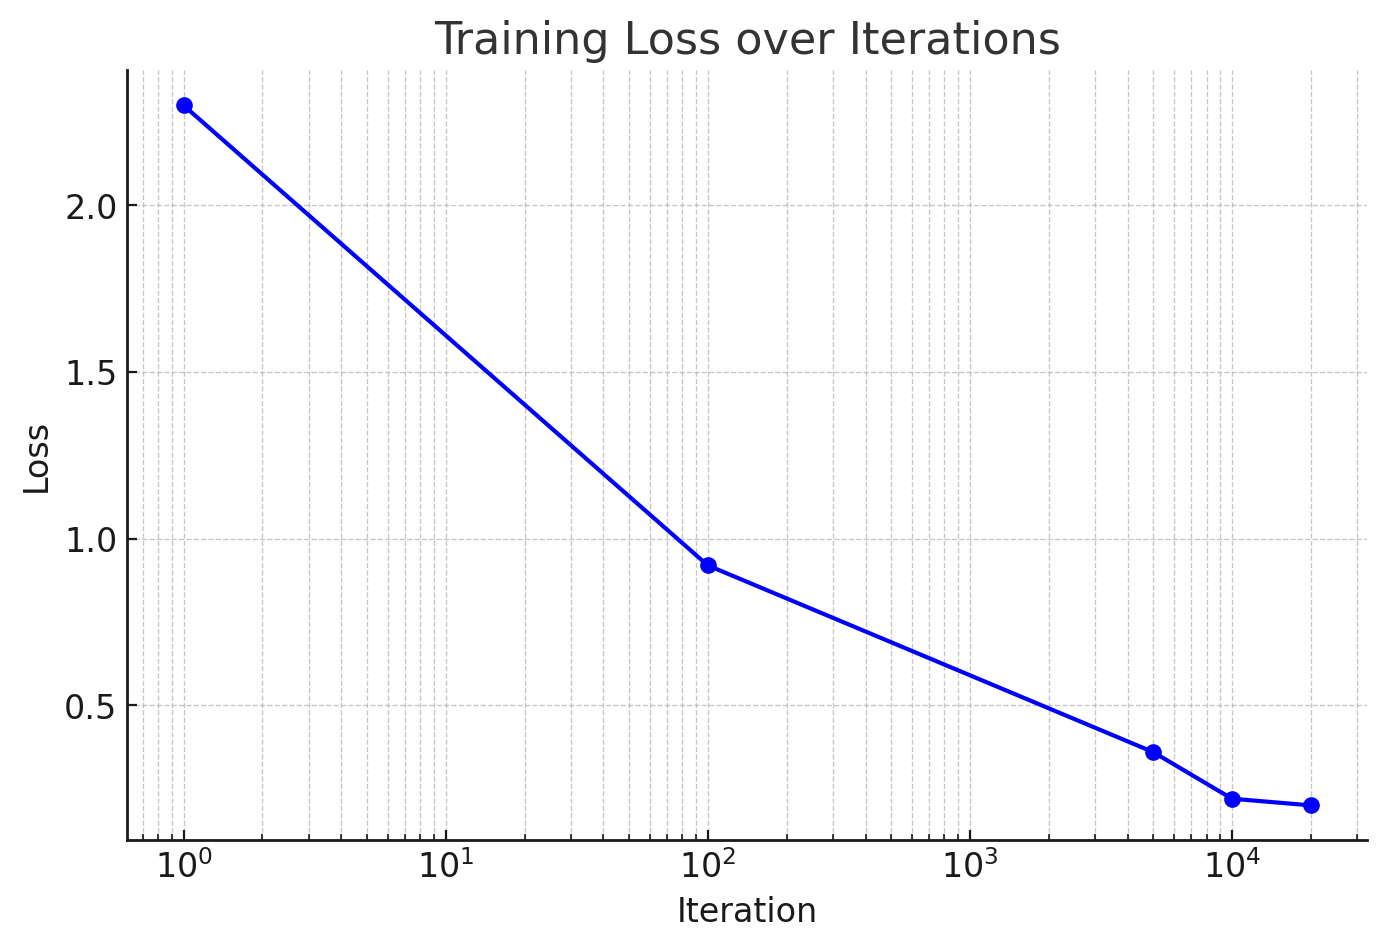
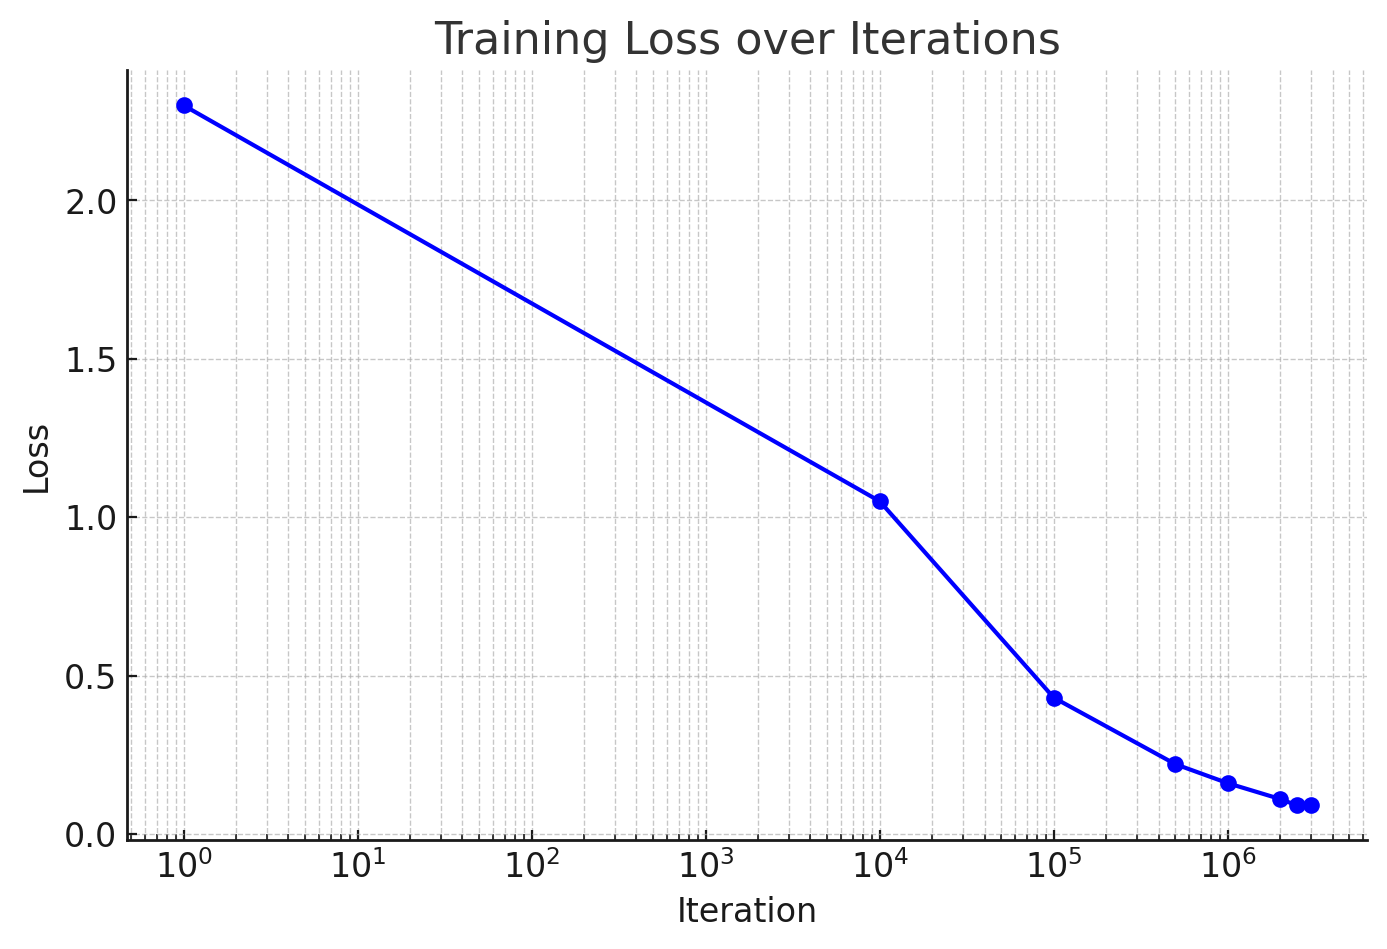
Fixed the loss section with a more realistic example

diff --git a/LLMs_explained.md b/LLMs_explained.md
@@ -132,15 +132,16 @@ Remember:
 
 <img src="images/loss.png" width="600"/><br>
 
-| Iteration | LLM Prediction | Loss | Observation |
-|-----------|----------------|------|-------------|
-| 1 | *banana* → 50% <br>*galaxy* → 30%<br>*mat* → 10%<br>*sofa* → 10% | **2.30**<br>(Very High)| Model thinks that the likelihood of "mat" is unlikely (just 10% probability) → high loss.|
-| 100 | *mat* → 40%<br>*sofa* → 30%<br>*floor* → 20%<br>*banana* → 10% | **0.92**<br>(Low) | "mat" is getting more probable → loss decreasing. |
-| 5000 | *mat* → 70%<br>*sofa* → 20%<br>*floor* → 8%<br>*banana* → 2% | **0.36**<br>(Lower) | Training is working - as the loss steadily decreasing |
-| 10000 | *mat* → 80%<br>*sofa* → 15%<br>*floor* → 4%<br>*banana* → 1% | **0.22**<br>(Very Low) | The model is confident that the true next word is "mat". |
-| 20000 | *mat* → 82%<br>*sofa* → 14%<br>*floor* → 3%<br>*banana* → 1% | **0.20**<br>(Very Low) | Plateau<br>At this point, the model is barely improving (from 0.22 → 0.20).<br>Training longer costs huge amounts of compute but gives very little gain. It’s a strong signal that training can stop. |
-
-
+| Iteration | Context | True Next Token | LLM Prediction | Loss | Observation |
+|-----------|---------|-----------------|----------------|------|-------------|
+| 1 | "The cat sat on the" | *mat* | *banana* → 50% <br>*galaxy* → 30%<br>*mat* → 10%<br>*sofa* → 10% | **2.30**<br>(Very High)| Model is essentially guessing randomly. It thinks "banana" is most likely, which is completely wrong → very high loss.|
+| 10000 | "She placed her keys on the kitchen" | *counter* | *counter* → 35%<br>*table* → 30%<br>*floor* → 20%<br>*moon* → 15% | **1.05**<br>(High) | Model is starting to learn context matters. The true next token "counter" is its top prediction, but still not very confident → Loss decreasing. |
+| 100000 | "Please wipe your feet on the" | *mat* | *mat* → 65%<br>*doormat* → 20%<br>*floor* → 10%<br>*carpet* → 5% | **0.43**<br>(Medium-Low) | Training is working - as the loss steadily decreasing |
+| 500000 | "The airplane flew across the" | *sky* | *sky* → 80%<br>*ocean* → 12%<br>*country* → 6%<br>*clouds* → 2% | **0.22**<br>(Low) |  Model correctly predicted the correct next word with high confidence - Great sign! |
+| 1000000 | "He opened the book and began to" | *read* | *read* → 85%<br>*write* → 10%<br>*study* → 4%<br>*close* → 1% | **0.16**<br>(Very Low) | Model correctly predicted the correct next word with even higher confidence - Nice! |
+| 2000000 | "She wore a beautiful wedding" | *dress* | *dress* → 90%<br>*gown* → 7%<br>*ring* → 2%<br>*veil* → 1% | **0.11**<br>(Very Low) | Model consistently predicting the correct next word with high confidence |
+| 2500000 | "The chef prepared a delicious" | *meal* | *meal* → 91%<br>*dish* → 6%<br>*dinner* → 2%<br>*recipe* → 1% | **0.09**<br>(Very Low) | **Plateau**<br>Minimal improvement from iteration 20000 (0.11 → 0.09).<br>Diminishing returns - model has learned most patterns. |
+| 3000000 | "The scientist conducted an" | *experiment* | *experiment* → 91.5%<br>*investigation* → 5%<br>*analysis* → 2.5%<br>*study* → 1% | **0.09**<br>(Very Low) | **Plateau Confirmed**<br>Loss has flatlined (0.09 → 0.09).<br>Further training provides negligible improvement while consuming massive compute resources. Time to stop training. |RetryClaude does not have the ability to run the code it generates yet.
 
 Loss formula:
 ```
